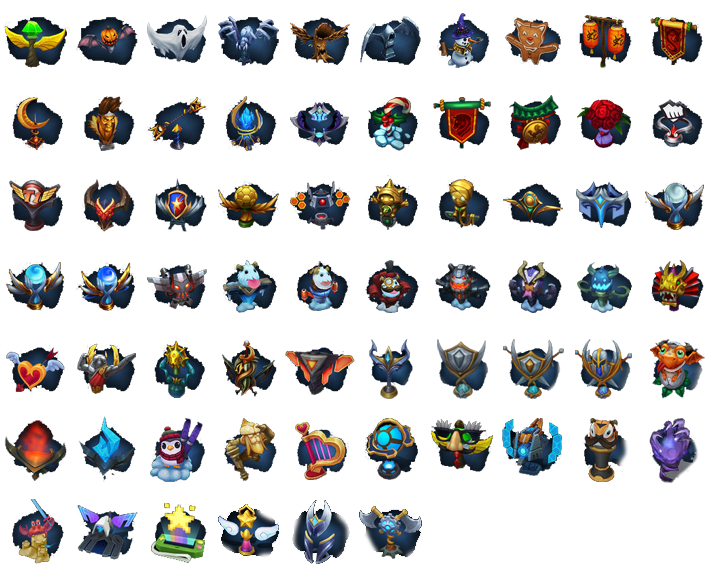
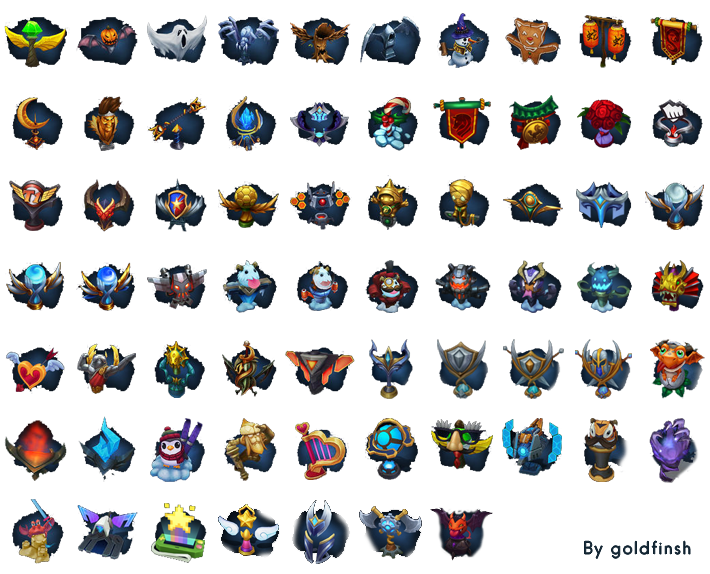
Add ward
Add ward

Changed region(s): [[0.5887, 0.8885, 0.7127, 0.9774], [0.8056, 0.9477, 0.9915, 0.9774]]

diff --git a/Nebula Skin/WardPreview.cs b/Nebula Skin/WardPreview.cs
@@ -34,7 +34,7 @@ namespace NebulaSkin
             "S4Triumphant", "S4Victorious", "Battlecast", "NomalPoro", "AstroPoro", "GentlemanPoro", "BattlecastPoro", "DragonSlayerPoro ", "UnderworldPoro", "LunarDragon",
             "Heartseeker", "UrfTriumphant", "MotherSerpent", "SlaughterFleet", "OpticEnhancer", "Championship2015", "2015Conquering", "2015Triumphant", "2015Victorious", "Riggle",
             "TeamFire", "TeamIce", "PenguinSkier", "RisingDawn", "Harpseeker", "Hextech", "DefinitelyNotAWard", "MechaZero", "ElPoroWard", "DarkStar",
-            "HisRoyalCrabness", "PROJECT", "GAMEON", "StarGuardian", "2016Championship", "MechsvsMinions"
+            "HisRoyalCrabness", "PROJECT", "GAMEON", "StarGuardian", "2016Championship", "MechsvsMinions", "Vampro"
         };
 
         private static WardAtlass WardAtlas { get; set; }

diff --git a/Nebula Skin/Skin.cs b/Nebula Skin/Skin.cs
@@ -78,7 +78,7 @@ namespace NebulaSkin
             Menu.AddSeparator();
             Menu.AddLabel(Res_Language.GetString("Label_Ward"));            
             Menu.AddVisualFrame(new WardPreview("Ward.Preview", System.Drawing.Color.Purple));
-            Menu.Add("Ward.Skin", new Slider(Res_Language.GetString("Label_Skin"), 0, 0, 65));
+            Menu.Add("Ward.Skin", new Slider(Res_Language.GetString("Label_Skin"), 0, 0, 66));
 
             MenuVer = Menu.AddSubMenu("Local " + CheckVersion.LocalVersion, "Sub0");
             MenuVer.AddGroupLabel(Res_Language.GetString("Label_By"));

diff --git a/Nebula Skin/Properties/AssemblyInfo.cs b/Nebula Skin/Properties/AssemblyInfo.cs
@@ -30,6 +30,6 @@ using System.Runtime.InteropServices;
 //      빌드 번호
 //      수정 버전
 //
-[assembly: AssemblyVersion("6.21.0.1")]
-[assembly: AssemblyFileVersion("6.21.0.1")]
+[assembly: AssemblyVersion("6.21.0.2")]
+[assembly: AssemblyFileVersion("6.21.0.2")]
 
